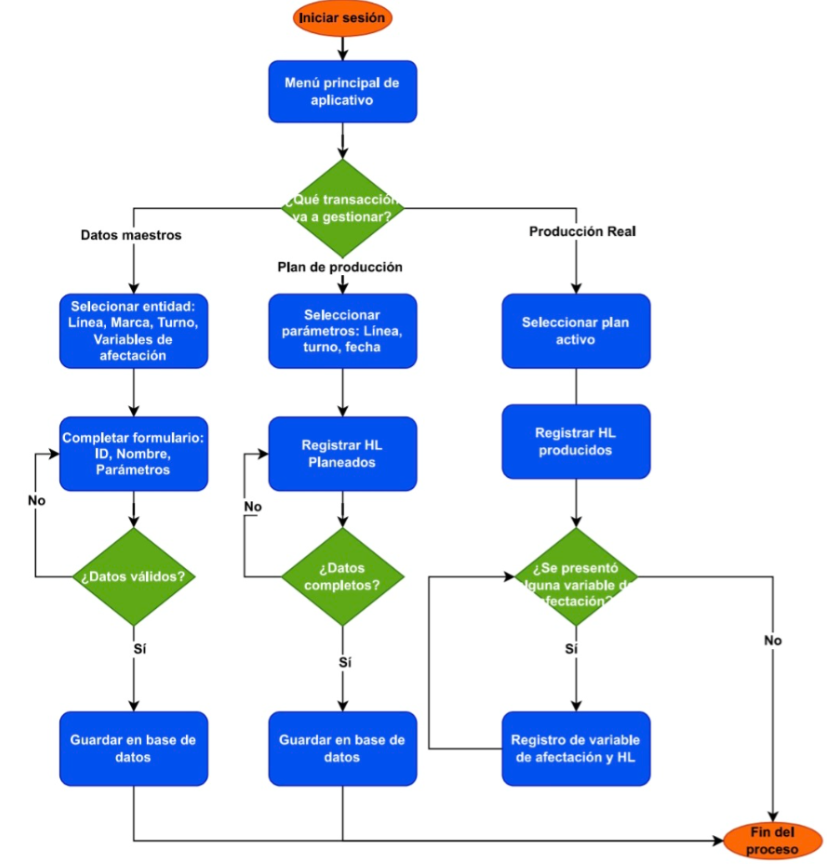
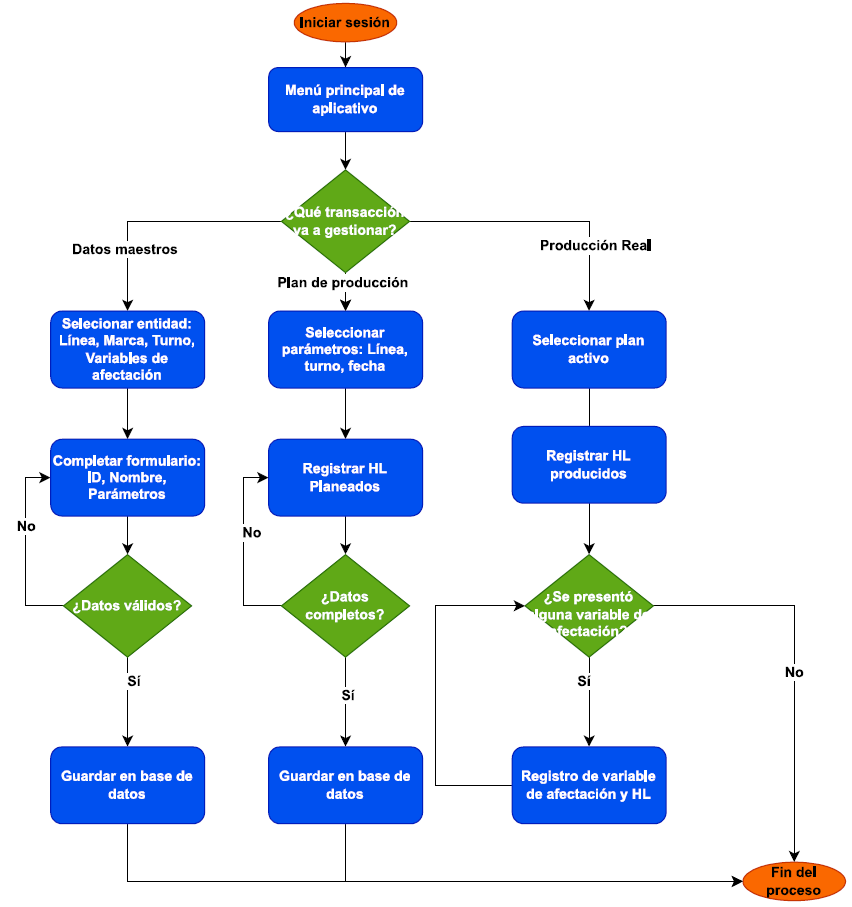
version mejorada2

diff --git a/index.html b/index.html
@@ -428,7 +428,7 @@
                 <div class="gallery-grid mt-20">
                     <img src="Imagenes/codigo1.png" alt="Código envío 1">
                     <img src="Imagenes/codigo2.png" alt="Consulta SQL envío 1">
-                    <img src="Imagenes/codigoenvio3.png" alt="Correo generado envío 1">
+                    <img src="Imagenes/codigo3.png" alt="Correo generado envío 1">
                 </div>
             </div>
 